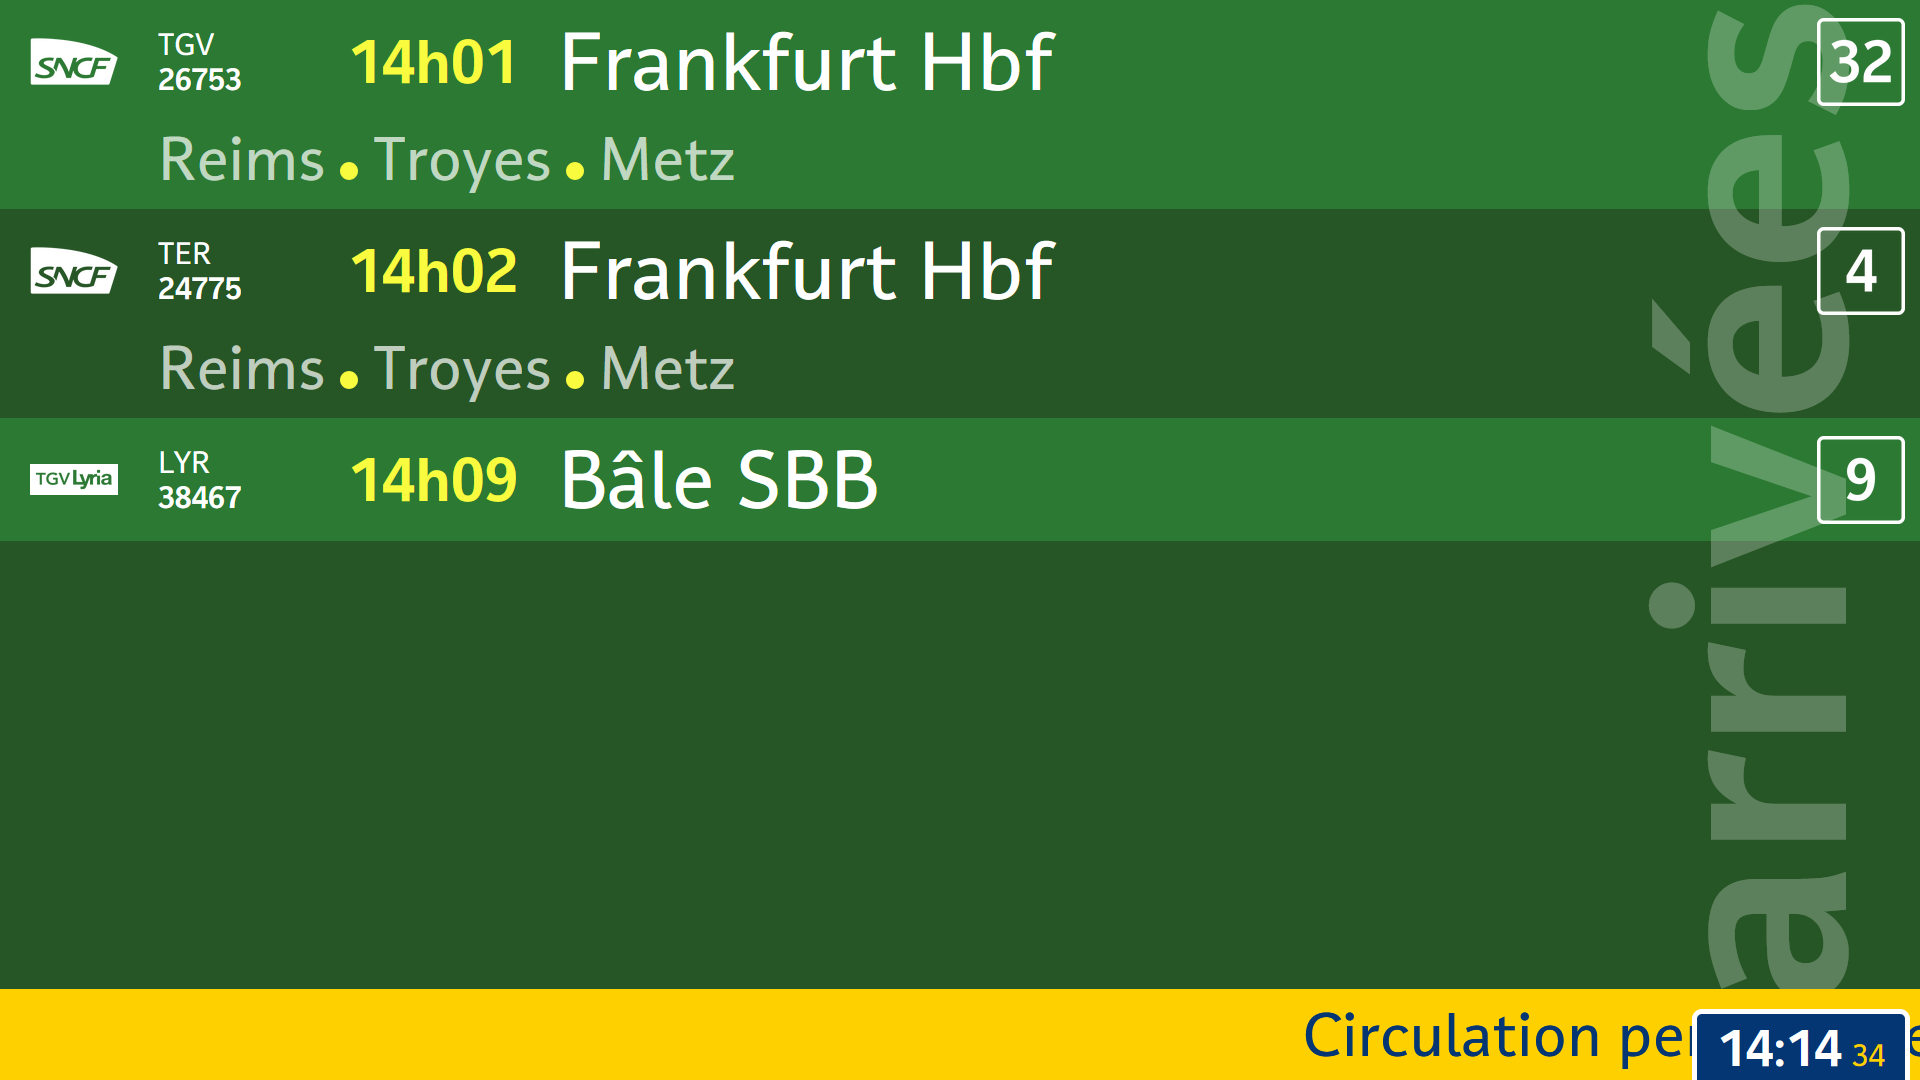
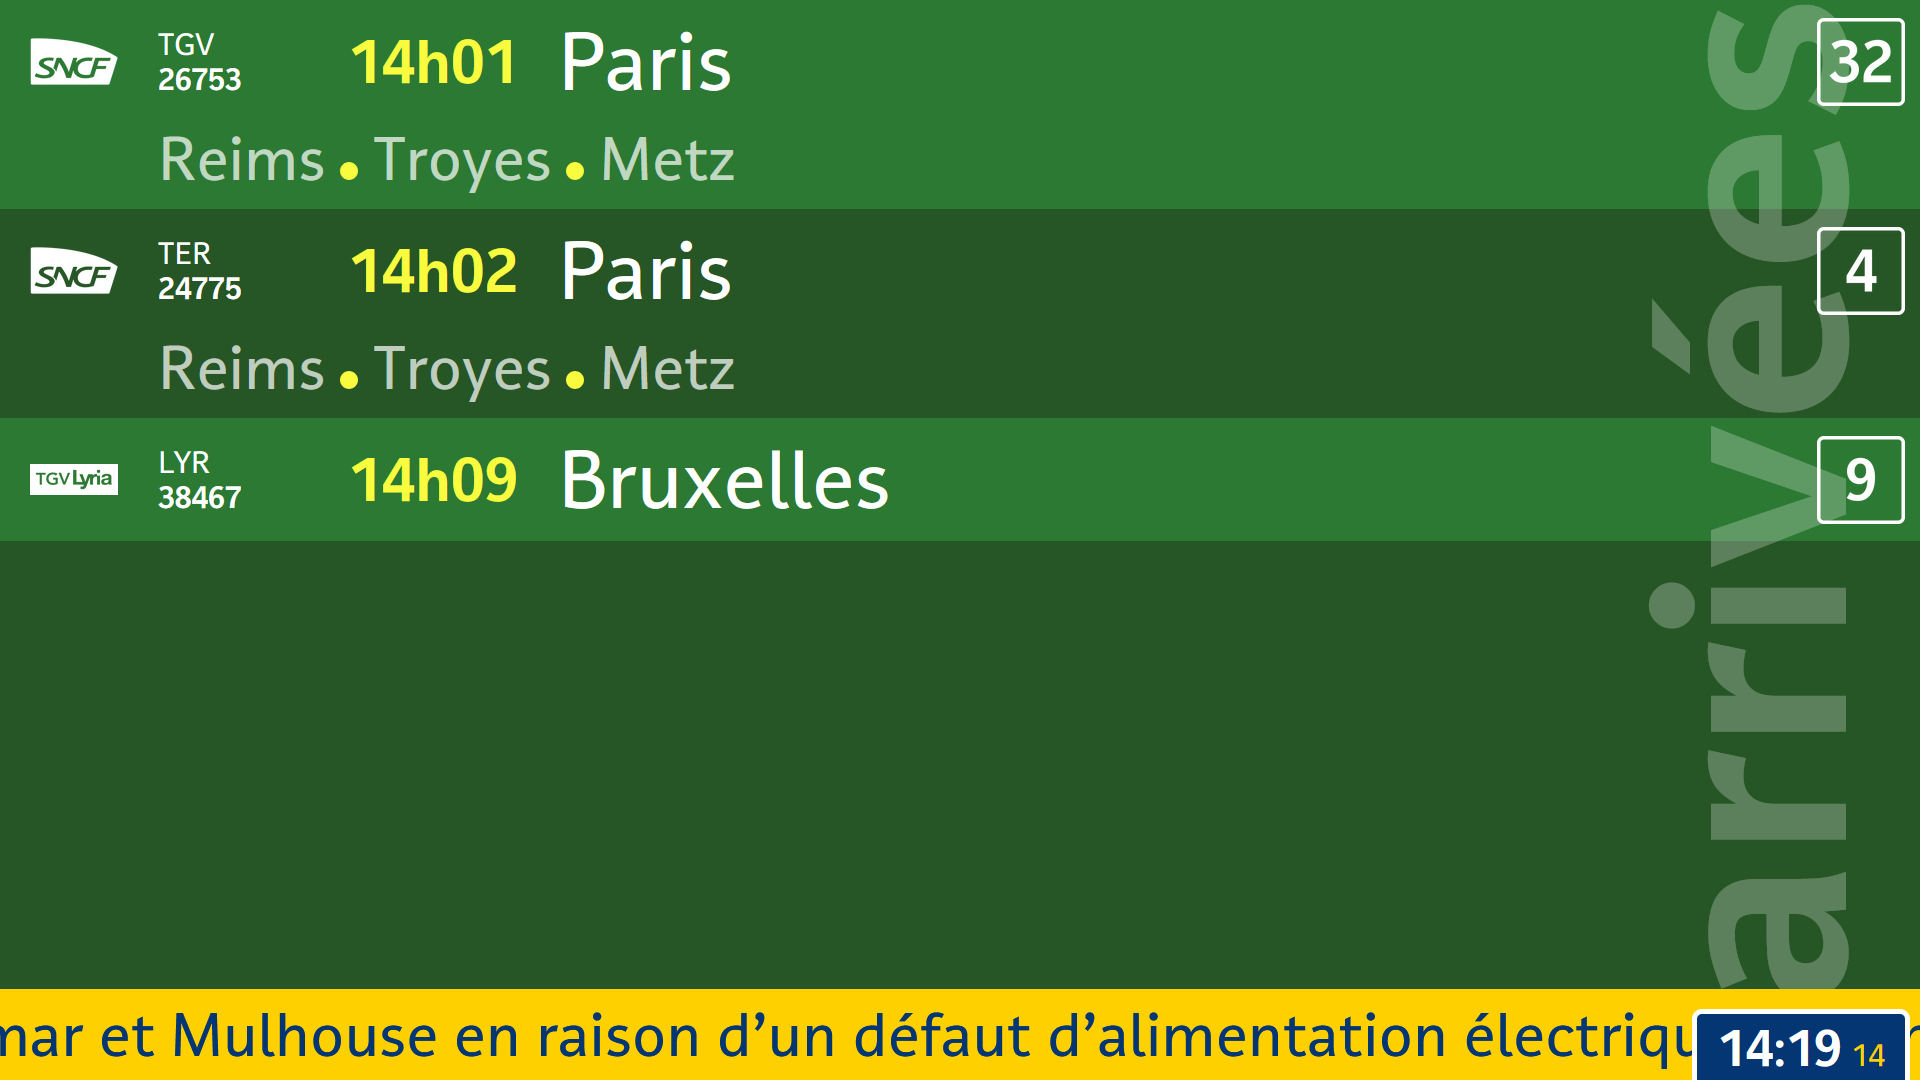
l'écran des arrivées affiche la provenance et non la destination

diff --git a/public/arrivees-departs.js b/public/arrivees-departs.js
@@ -93,7 +93,7 @@ export async function displayTrains(ecran) {
   if(ecran == "arrivees") {
     for (const train of trains) {
       if(train.provenance != gare) {
-        ajouterTrain(train.idTrain, train.operateur, train.etat, train.horaire, train.destination, train.quai, train.arrets.split(` . ${gare} . `).length > 1 ? train.arrets.split(` . ${gare} . `)[0] : train.arrets, train.retard, i);
+        ajouterTrain(train.idTrain, train.operateur, train.etat, train.horaire, train.provenance, train.quai, train.arrets.split(` . ${gare} . `).length > 1 ? train.arrets.split(` . ${gare} . `)[0] : train.arrets, train.retard, i);
         i++;
       }
     }